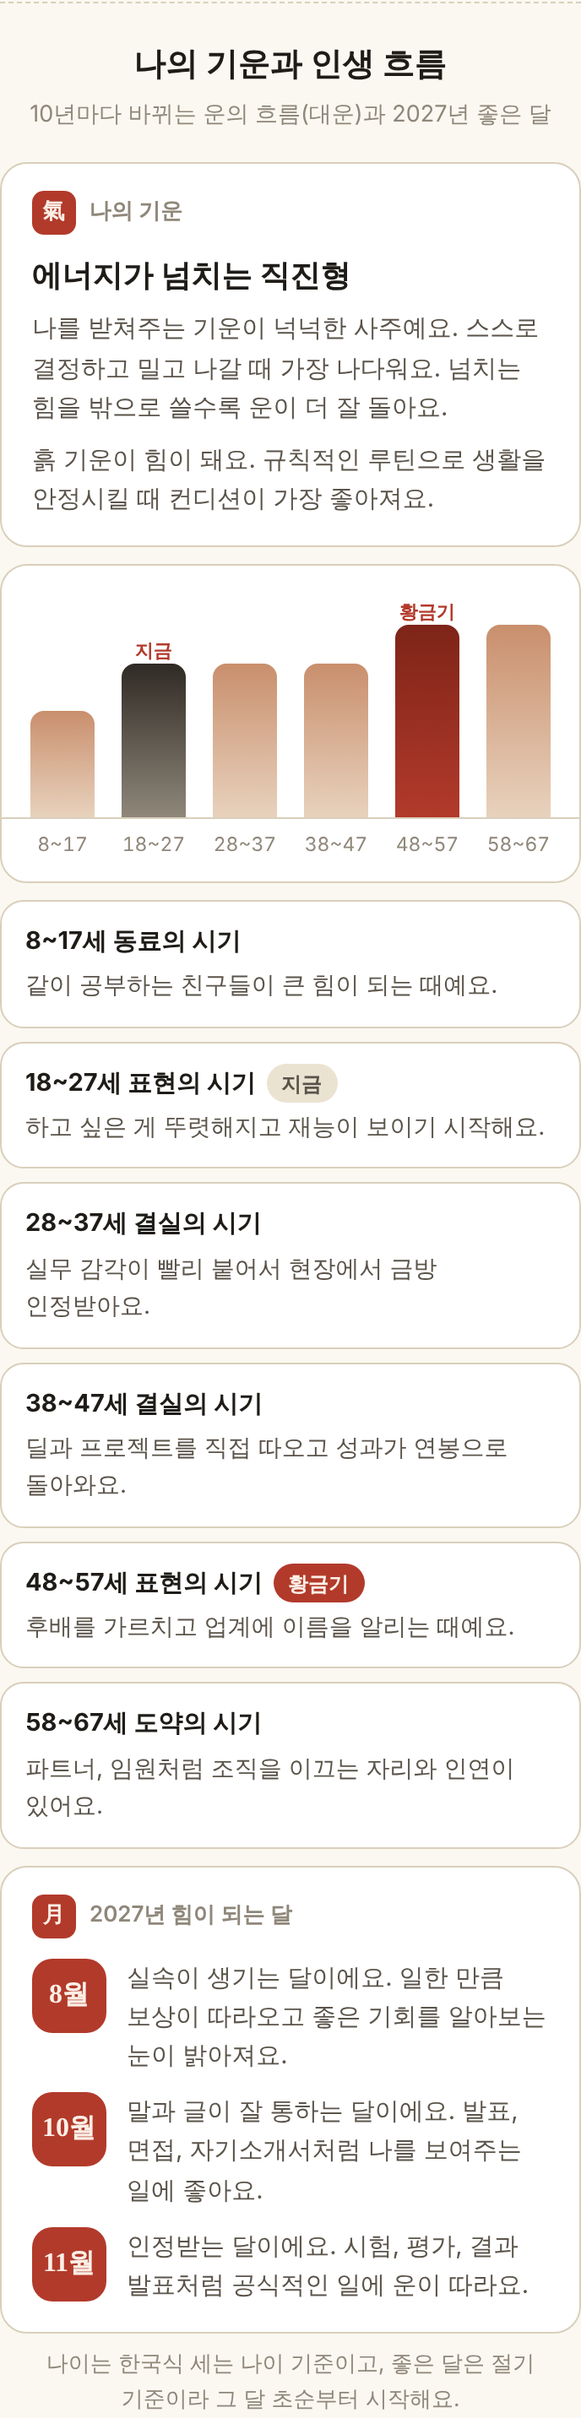
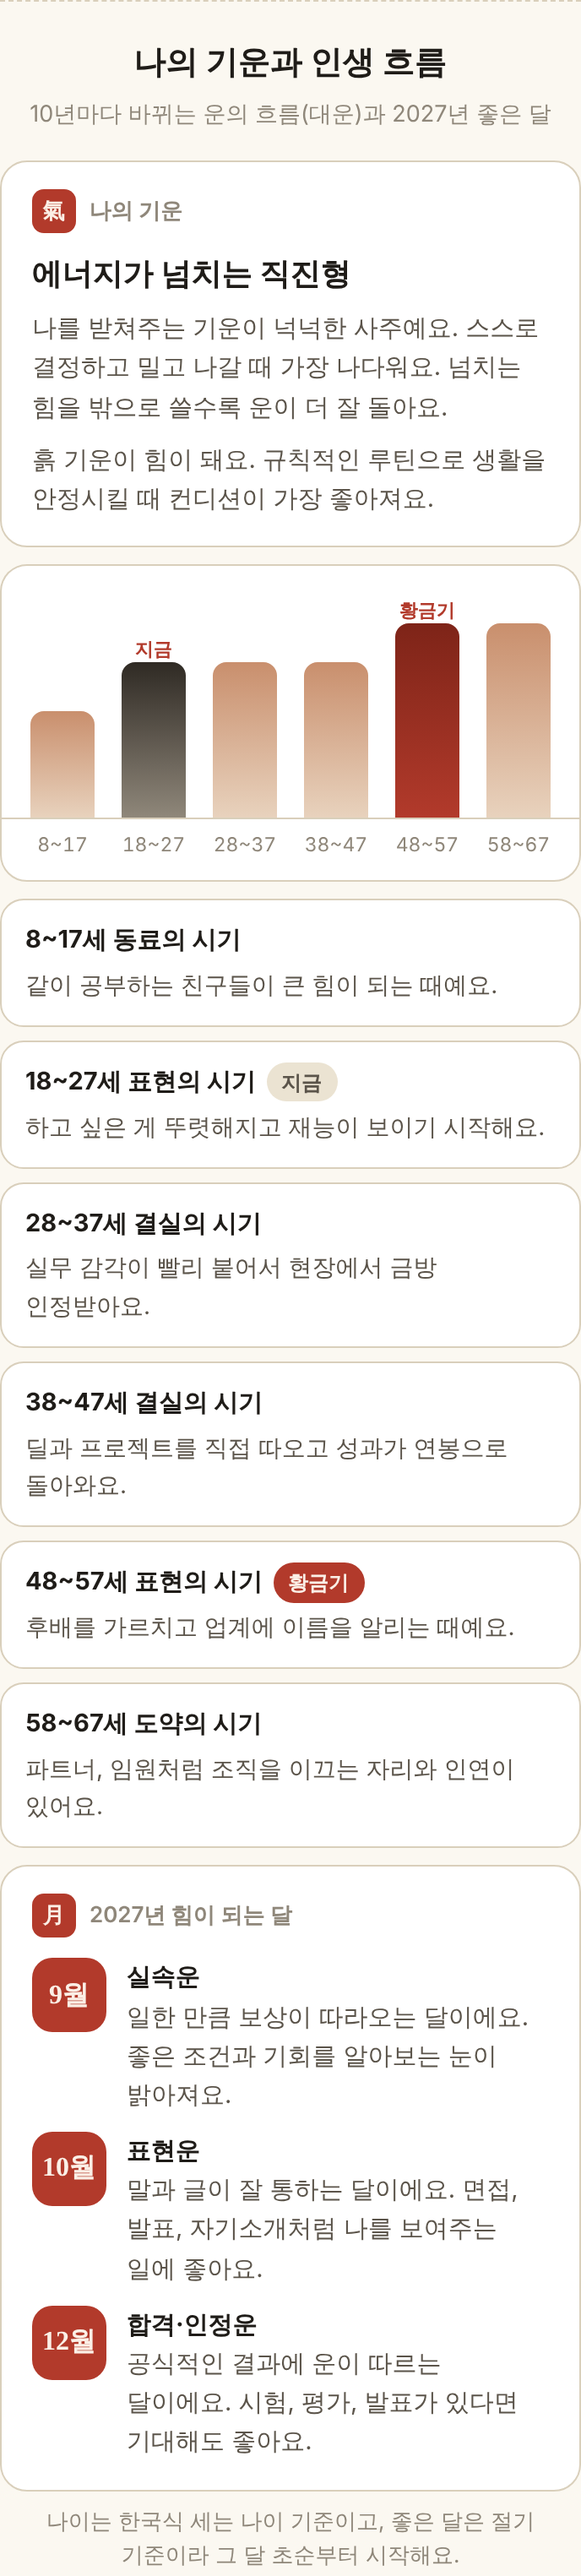
2027 회계사 일정 카드 제거, 좋은 달은 각자 운이 들어오는 달로만 안내
Claude-Session: https://claude.ai/code/session_012bKZfKa4NxDtXrmtTF5ER5

diff --git a/lib/career.js b/lib/career.js
@@ -1,7 +1,7 @@
 // 학회원 대부분이 회계사 시험 합격·유예생이라, 직업운을 회계법인 진로(감사·세무·딜·컨설팅·개업)에 맞춰 풀이한다.
 // 십신 다섯 묶음의 개수로 잘 맞는 분야를, 나를 돕는 기운의 양(신강·신약)으로 일하는 스타일을 고른다.
 // 모두 장점 위주로 쓰고, 특정 분야가 안 맞는다는 말은 하지 않는다. 재미로 보는 풀이다.
-import { getTenGod, getBranchTenGod } from 'manseryeok';
+import { getTenGod } from 'manseryeok';
 import { strengthOf } from './flow.js';
 
 const GROUP_OF = {
@@ -90,32 +90,6 @@ const YEAR_2027 = {
   인성: '배움이 쌓이는 해예요. 좋은 선배나 멘토를 만나 실력이 한 단계 올라가요.',
 };
 
-// 2027년 회계사 일정(2차 시험 6월 말, 입사 결과 8~9월, 입사 10·12월)에 맞춘 달의 기운 풀이.
-// 월 간지는 절기 기준: 6월 병오, 8월 무신, 9월 기유, 10월 경술, 12월 임자.
-const CALENDAR = [
-  { when: '6월', event: '2차 시험 시즌', months: ['병오'], lines: {
-    비겁: '함께 준비한 동료들의 기운이 모이는 달이에요. 같이 버틴 시간이 마지막 힘이 돼요.',
-    식상: '아는 것을 답안에 술술 풀어내는 힘이 좋아지는 달이에요. 서술형에서 실력이 잘 드러나요.',
-    재성: '실전 감각이 날카로워지는 달이에요. 시간 배분과 계산 문제에서 강해요.',
-    관성: '시험처럼 공식적인 결과가 걸린 일에 운이 따르는 달이에요.',
-    인성: '공부한 내용이 머리에 단단히 자리 잡는 달이에요. 마지막 정리가 잘 돼요.',
-  } },
-  { when: '8~9월', event: '입사 결과 발표', months: ['무신', '기유'], lines: {
-    비겁: '든든한 동기들과 같은 소식을 나누게 되는 흐름이에요.',
-    식상: '면접에서 나를 잘 표현한 만큼 좋은 반응이 돌아오는 때예요.',
-    재성: '조건과 기회를 잘 따져 좋은 선택을 하는 때예요.',
-    관성: '인정받는 소식이 들려오기 좋은 때예요. 노력이 공식적인 결과로 이어져요.',
-    인성: '좋은 선배와 인연이 닿는 때예요. 들어갈 곳의 분위기가 나와 잘 맞아요.',
-  } },
-  { when: '10·12월', event: '입사와 첫 시즌', months: ['경술', '임자'], lines: {
-    비겁: '동기들과 금방 친해져서 첫 시즌을 같이 웃으며 버텨요.',
-    식상: '첫 보고서와 발표에서 센스 있다는 말을 듣기 좋은 때예요.',
-    재성: '실무를 빨리 익혀서 현장에서 금방 한 사람 몫을 해요.',
-    관성: '맡은 일을 책임감 있게 해내서 첫인상부터 신뢰를 얻어요.',
-    인성: '잘 가르쳐주는 시니어를 만나 빠르게 배우는 때예요.',
-  } },
-];
-
 function countGroups(saju) {
   const counts = { 비겁: 0, 식상: 0, 재성: 0, 관성: 0, 인성: 0 };
   const gods = {};
@@ -198,13 +172,5 @@ export function readCareer(saju) {
     path: careerPath(saju, counts, gods),
     busy: BUSY[STEM_ELEMENT[saju.dayMaster]],
     year: YEAR_2027[yearGroup],
-    calendar: CALENDAR.map((e) => {
-      // 여러 달이면 나에게 더 힘이 되는 달의 기운으로 풀이한다
-      const strength = strengthOf(saju);
-      const helpful = strength === 'strong' ? ['식상', '재성', '관성'] : ['비겁', '인성'];
-      const groups = e.months.flatMap((gz) => [GROUP_OF[getTenGod(saju.dayMaster, gz[0])], GROUP_OF[getBranchTenGod(saju.dayMaster, gz[1])]]);
-      const g = groups.find((x) => helpful.includes(x)) ?? groups[0];
-      return { when: e.when, event: e.event, body: e.lines[g] };
-    }),
   };
 }

diff --git a/lib/flow.js b/lib/flow.js
@@ -82,11 +82,11 @@ const DECADE_CAREER = {
 };
 
 const MONTH_THEME = {
-  비겁: '든든한 내 편이 생기는 달이에요. 스터디나 팀 프로젝트가 잘 풀려요.',
-  식상: '말과 글이 잘 통하는 달이에요. 발표, 면접, 자기소개서처럼 나를 보여주는 일에 좋아요.',
-  재성: '실속이 생기는 달이에요. 일한 만큼 보상이 따라오고 좋은 기회를 알아보는 눈이 밝아져요.',
-  관성: '인정받는 달이에요. 시험, 평가, 결과 발표처럼 공식적인 일에 운이 따라요.',
-  인성: '공부가 잘 되는 달이에요. 도와주는 사람이 나타나고 머리에 쏙쏙 들어와요.',
+  비겁: ['동료운', '든든한 내 편이 생기는 달이에요. 함께 준비하는 사람들과 시너지가 커요.'],
+  식상: ['표현운', '말과 글이 잘 통하는 달이에요. 면접, 발표, 자기소개처럼 나를 보여주는 일에 좋아요.'],
+  재성: ['실속운', '일한 만큼 보상이 따라오는 달이에요. 좋은 조건과 기회를 알아보는 눈이 밝아져요.'],
+  관성: ['합격·인정운', '공식적인 결과에 운이 따르는 달이에요. 시험, 평가, 발표가 있다면 기대해도 좋아요.'],
+  인성: ['공부·귀인운', '공부가 잘 되고 도와주는 사람이 나타나는 달이에요. 좋은 선배나 멘토와 인연이 닿아요.'],
 };
 
 // 2027년(정미년)의 월 간지. 절기 기준이라 각 달은 대략 그 달 4~8일쯤 시작한다.
@@ -143,17 +143,20 @@ export function readFlow(saju, birthYear) {
   if (peak) peak.peak = true;
 
   // 2027년 월별: 힘이 되는 달 3개를 고른다
+  const seed = [...saju.pillars.day, ...(saju.pillars.hour ?? '')].reduce((n, ch) => n + ch.charCodeAt(0), 0);
+  const tie = (i) => (i * 7 + seed) % 11;
   // 점수가 높은 달부터, 되도록 서로 다른 이야기가 나오게 3개를 고른다
   const ranked = MONTHS_2027
     .map(([m, gz], i) => {
       const x = pillarScore(dm, strength, gz[0], gz[1]);
       return { m, i, score: x.score, theme: helps(strength, x.gb) ? x.gb : x.gs };
     })
-    .sort((a, b) => b.score - a.score || a.i - b.i);
+    // 점수가 같으면 사람마다 다른 달이 나오도록 일주로 정한 순서로 고른다
+    .sort((a, b) => b.score - a.score || tie(a.i) - tie(b.i));
   const picked = [];
   for (const x of ranked) if (picked.length < 3 && !picked.some((p) => p.theme === x.theme)) picked.push(x);
   for (const x of ranked) if (picked.length < 3 && !picked.includes(x)) picked.push(x);
-  const months = picked.sort((a, b) => a.m - b.m).map((x) => ({ month: x.m, body: MONTH_THEME[x.theme] }));
+  const months = picked.sort((a, b) => a.m - b.m).map((x) => ({ month: x.m, label: MONTH_THEME[x.theme][0], body: MONTH_THEME[x.theme][1] }));
 
   return { strength, energy, decades, months };
 }

diff --git a/public/index.html b/public/index.html
@@ -726,8 +726,7 @@
         ${card('路', '파트너 vs 이직 vs 개업', c.path.title, c.path.body, `<p class="basis">${c.path.basis}</p>`)}
         ${card('手', '일하는 스타일', c.style.title, c.style.body)}
         ${card('忙', '바쁜 시즌 버티는 법', '나만의 충전법', c.busy)}
-        ${card('丁', '2027년 커리어 흐름', '내년의 나', c.year,
-          c.calendar ? `<div style="margin-top:12px">${c.calendar.map((e) => `<div class="month-row"><span class="m" style="font-size:12.5px;min-width:58px">${e.when}</span><p><b style="color:var(--ink)">${e.event}</b><br>${e.body}</p></div>`).join('')}</div>` : '')}`;
+        ${card('丁', '2027년 커리어 흐름', '내년의 나', c.year)}`;
       box.hidden = false;
     }
 
@@ -757,7 +756,7 @@
         <ul class="decade-list">${list}</ul>
         <article class="read-card" style="margin-top:10px">
           <div class="read-head"><span class="read-icon">月</span><span class="read-label">2027년 힘이 되는 달</span></div>
-          <div style="margin-top:12px">${f.months.map((m) => `<div class="month-row"><span class="m">${m.month}월</span><p>${m.body}</p></div>`).join('')}</div>
+          <div style="margin-top:12px">${f.months.map((m) => `<div class="month-row"><span class="m">${m.month}월</span><p><b style="color:var(--ink)">${m.label}</b><br>${m.body}</p></div>`).join('')}</div>
         </article>
         <p class="hint" style="text-align:center">나이는 한국식 세는 나이 기준이고, 좋은 달은 절기 기준이라 그 달 초순부터 시작해요.</p>`;
       box.hidden = false;

diff --git a/README.md b/README.md
@@ -11,7 +11,7 @@
 | 사주 계산 | `lib/saju.js`: `manseryeok`로 계산, `lunar-javascript`로 교차검증 | 무료 |
 | 데이터베이스 | Supabase PostgreSQL, `supabase/schema.sql` | 무료 |
 | AI 편성 | `api/group.js`, `lib/agent.js`: Gemini 함수 호출 에이전트, `lib/compat.js`: 궁합 점수와 기준선 | 무료 등급 |
-| 결과 풀이 | `lib/reading.js`(성격·연애·재물·직업), `lib/match.js`(잘 맞는 이성), `lib/specials.js`(매력 지수·도화/홍염/역마/괴강·2027년 운세), `lib/character.js`(일주 동물 캐릭터), `lib/career.js`(회계사 진로: 분야·파트너/이직/개업·2027 일정), `lib/flow.js`(나의 기운·10년 단위 흐름·2027년 좋은 달) | 무료 |
+| 결과 풀이 | `lib/reading.js`(성격·연애·재물·직업), `lib/match.js`(잘 맞는 이성), `lib/specials.js`(매력 지수·도화/홍염/역마/괴강·2027년 운세), `lib/character.js`(일주 동물 캐릭터), `lib/career.js`(회계사 진로: 분야·파트너/이직/개업), `lib/flow.js`(나의 기운·10년 단위 흐름·2027년 좋은 달) | 무료 |
 | 운영자 페이지 | `public/admin.html` | 무료 |
 
 처리 순서: 입력 → 초대코드·동의·입력값 검증 → 사주 계산(진태양시 보정) → 교차검증 → DB 저장 → 본인 사주만 화면에 표시.
